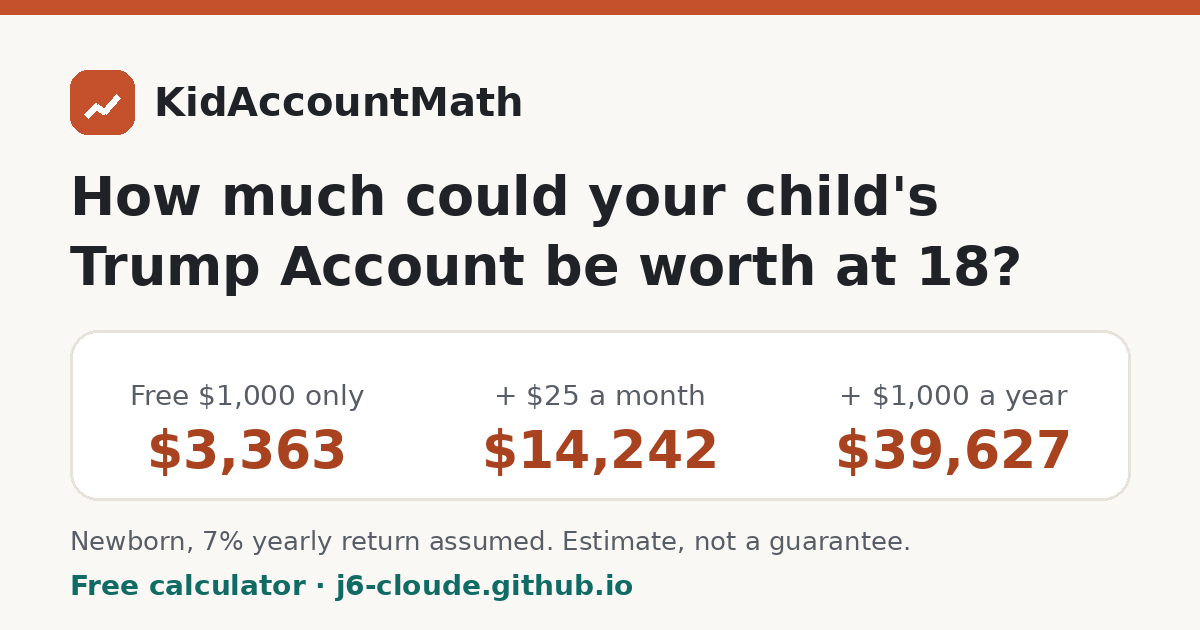
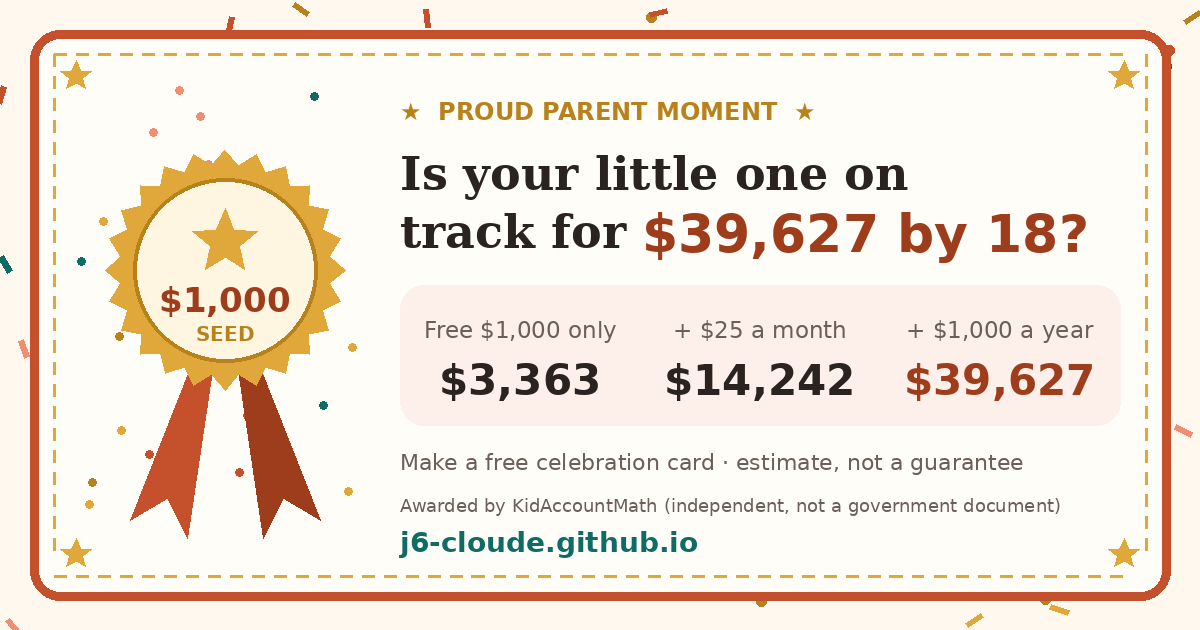
deploy: festive certificate share cards

diff --git a/assets/share.js b/assets/share.js
@@ -1,74 +1,140 @@
-/* KidAccountMath share card: client-side only. No tracking, no third-party scripts, no cookies.
-   calc.js calls window.KAMShare.update(state) after each result. */
+/* KidAccountMath celebration cards: client-side canvas PNGs. No tracking, no third-party scripts, no cookies, no storage.
+   Two kinds: 'proj' (projection certificate, fed by calc.js via KAMShare.update) and 'claim' (self-declared "we claimed it" card).
+   Design rule: festive + clearly unofficial. No seals, eagles, flags, signatures, serial numbers or agency styling. */
 (function(){
- var W=1080,H=1350,BG='#faf8f4',INK='#1f2328',MUTED='#575d66',ACC='#c4512b',ACCD='#a8421f',SOFT='#fdf0ea',LINE='#e7e2da',TEAL='#0f6b63';
- var FONT='system-ui,-apple-system,"Segoe UI",Roboto,"Noto Sans","DejaVu Sans",sans-serif';
- var $=function(i){return document.getElementById(i)},S=null,timer=0,blob=null,objURL='';
+ var W=1080,H=1350,
+  C={bg:'#fff8ee',paper:'#fffdf8',ink:'#2a2320',muted:'#6b5f57',acc:'#c4512b',accd:'#9e3d1c',gold:'#e0a83a',goldd:'#b9811c',teal:'#0f6b63',pink:'#ee8f73',soft:'#fdf0ea'},
+  SANS='system-ui,-apple-system,"Segoe UI",Roboto,"Noto Sans","DejaVu Sans",sans-serif',SERIF='Georgia,"Times New Roman","Noto Serif","DejaVu Serif",serif',
+  EMO='"Apple Color Emoji","Segoe UI Emoji","Noto Color Emoji",sans-serif';
+ var $=function(i){return document.getElementById(i)},S=null,KIND='proj',timer=0,blob=null,objURL='';
  function money(x){return '$'+Math.round(x).toLocaleString('en-US')}
  function pct(x){return (Math.round(x*1000)/10).toString()}
- // Query string that reproduces the result. Only non-default extras are added to keep links short.
- function query(s){
+ function cleanName(n){return String(n||'').replace(/[\u0000-\u001f<>]/g,'').replace(/\s+/g,' ').trim().slice(0,20)}
+ function nameOf(){var el=$('shname');return cleanName(el?el.value:'')}
+ function poss(n){return /s$/i.test(n)?n+"'":n+"'s"}
+ // light, fun tiers (by projected balance)
+ var TIERS=[[100000,'Money Tree Legend','🌳','LEGEND'],[40000,'Growth Superstar','🚀','SUPERSTAR'],[15000,'Compound Interest Champion','🏆','CHAMPION'],[5000,'Little Saver Star','⭐','STAR'],[0,'Future Investor','🌱','INVESTOR']];
+ function tier(b){for(var i=0;i<TIERS.length;i++)if(b>=TIERS[i][0])return TIERS[i];return TIERS[TIERS.length-1]}
+ // ---- URLs / text ----
+ function query(s,withName){
   var q='age='+s.age+'&amt='+s.fam+'&r='+pct(s.r);
   if(!s.seed)q+='&seed=0'; if(s.dell)q+='&dell=1'; if(s.emp)q+='&emp='+s.emp; if(s.to!==18)q+='&to='+s.to;
+  var n=nameOf(); if(withName&&n)q+='&name='+encodeURIComponent(n);
   return q;
  }
- function shareURL(s){return location.origin+'/trump-account-calculator/?'+query(s)}
- function headline(s){return "Our kid's Trump Account could reach "+money(s.bal)+' by '+s.to}
+ function incName(){var c=$('shincl');return !!(c&&c.checked)}
+ function shareURL(){return KIND==='claim'?location.origin+'/trump-account-eligibility-checker/':location.origin+'/trump-account-calculator/?'+query(S,incName())}
+ function shareText(){
+  if(KIND==='claim')return "We claimed our kid's free $1,000 Trump Account seed! 🎉 Did you claim yours? Check free:";
+  return "Our kid's Trump Account could reach "+money(S.bal)+' by '+S.to+' (estimate). Try your own numbers:';
+ }
  function assumptions(s){
-  var a=['Starts at age '+s.age, money(s.fam+s.emp)+'/yr added', pct(s.r)+'% yearly return'];
-  if(s.seed)a.push('$1,000 seed'); if(s.dell)a.push('Dell $250');
-  return a.join(' · ');
+  var a=[money(s.fam+s.emp)+'/yr added', pct(s.r)+'% yearly return'];
+  if(s.seed)a.push('$1,000 seed'); if(s.dell)a.push('Dell $250'); a.push('0.03% fee');
+  return 'Assumes '+a.join(' · ');
  }
- function fit(ctx,text,weight,size,maxW){ctx.font=weight+' '+size+'px '+FONT;while(ctx.measureText(text).width>maxW&&size>20){size-=4;ctx.font=weight+' '+size+'px '+FONT;}return size}
- function rr(ctx,x,y,w,h,r){ctx.beginPath();ctx.moveTo(x+r,y);ctx.arcTo(x+w,y,x+w,y+h,r);ctx.arcTo(x+w,y+h,x,y+h,r);ctx.arcTo(x,y+h,x,y,r);ctx.arcTo(x,y,x+w,y,r);ctx.closePath()}
- function draw(s,canvas){
-  canvas=canvas||document.createElement('canvas');canvas.width=W;canvas.height=H;
-  var c=canvas.getContext('2d'),M=90,CW=W-2*M;
-  c.fillStyle=BG;c.fillRect(0,0,W,H);
-  c.fillStyle=ACC;c.fillRect(0,0,W,18);
-  // brand
-  rr(c,M,90,72,72,20);c.fillStyle=ACC;c.fill();
-  c.strokeStyle='#fff';c.lineWidth=7;c.lineCap='round';c.lineJoin='round';c.beginPath();
-  c.moveTo(M+18,M+52+0);c.lineTo(M+29,M+41);c.lineTo(M+38,M+48);c.lineTo(M+54,M+30);c.stroke();
-  c.fillStyle=INK;c.font='800 44px '+FONT;c.textBaseline='middle';c.fillText('KidAccountMath',M+96,126);
-  // main card
-  rr(c,M,240,CW,760,40);c.fillStyle='#fff';c.fill();c.strokeStyle=LINE;c.lineWidth=3;c.stroke();
-  c.textBaseline='alphabetic';c.textAlign='center';var cx=W/2;
-  c.fillStyle=MUTED;c.font='600 50px '+FONT;c.fillText("Our kid's Trump Account",cx,370);
-  c.fillText('could reach',cx,436);
-  var big=money(s.bal),bs=fit(c,big,'800',200,CW-100);c.fillStyle=ACCD;c.fillText(big,cx,436+bs*1.0+40);
-  var y=436+bs+40;
-  c.fillStyle=INK;c.font='700 64px '+FONT;c.fillText('by age '+s.to,cx,y+110);
-  rr(c,M+60,y+170,CW-120,4,2);c.fillStyle=SOFT;c.fill();
-  var as=assumptions(s);fit(c,as,'500',34,CW-100);c.fillStyle=MUTED;c.fillText(as,cx,y+240);
-  // footer band
-  rr(c,M,1040,CW,120,30);c.fillStyle=SOFT;c.fill();
-  c.fillStyle=ACCD;c.font='700 40px '+FONT;c.fillText('Estimate, not a guarantee',cx,1114);
-  c.fillStyle=TEAL;c.font='700 44px '+FONT;c.fillText(location.host||'j6-cloude.github.io',cx,1240);
-  c.fillStyle=MUTED;c.font='400 28px '+FONT;c.fillText('Free calculator · independent · not affiliated with the IRS or Treasury',cx,1292);
-  return canvas;
+ // ---- canvas helpers ----
+ function font(w,sz,fam){return w+' '+sz+'px '+(fam||SANS)}
+ function fit(c,t,w,sz,max,fam){c.font=font(w,sz,fam);while(c.measureText(t).width>max&&sz>18){sz-=2;c.font=font(w,sz,fam);}return sz}
+ function wrap(c,t,max){var ws=t.split(' '),ls=[],l='';ws.forEach(function(w){var x=l?l+' '+w:w;if(c.measureText(x).width>max&&l){ls.push(l);l=w}else l=x});if(l)ls.push(l);return ls}
+ function rr(c,x,y,w,h,r){c.beginPath();c.moveTo(x+r,y);c.arcTo(x+w,y,x+w,y+h,r);c.arcTo(x+w,y+h,x,y+h,r);c.arcTo(x,y+h,x,y,r);c.arcTo(x,y,x+w,y,r);c.closePath()}
+ function rng(seed){return function(){seed=(seed*16807)%2147483647;return (seed-1)/2147483646}}
+ function star(c,x,y,r,col){c.save();c.translate(x,y);c.beginPath();for(var i=0;i<10;i++){var a=Math.PI/5*i-Math.PI/2,rad=i%2?r*.45:r;c.lineTo(Math.cos(a)*rad,Math.sin(a)*rad)}c.closePath();c.fillStyle=col;c.fill();c.restore()}
+ function confetti(c,w,h,seed,n,avoid){
+  var R=rng(seed),cols=[C.acc,C.gold,C.teal,C.pink,'#f2c14e','#7fb7a9'];
+  for(var i=0;i<n;i++){
+   var x=R()*w,y=R()*h;
+   if(avoid&&x>avoid[0]&&x<avoid[2]&&y>avoid[1]&&y<avoid[3])continue;
+   var col=cols[Math.floor(R()*cols.length)],k=R();c.save();c.translate(x,y);c.rotate(R()*Math.PI);c.globalAlpha=.75;c.fillStyle=col;
+   if(k<.45)c.fillRect(-9,-4,18,8);else if(k<.75){c.beginPath();c.arc(0,0,5+R()*3,0,7);c.fill();}
+   else if(k<.9){c.strokeStyle=col;c.lineWidth=4;c.beginPath();c.moveTo(-12,0);c.quadraticCurveTo(0,-10,12,0);c.stroke();}
+   else{c.restore();star(c,x,y,9,col);continue;}
+   c.restore();
+  }
  }
+ // scalloped rosette with two ribbon tails
+ function rosette(c,x,y,r,label,emoji){
+  c.save();
+  [[-1,C.acc],[1,C.accd]].forEach(function(p){c.beginPath();var s=p[0];c.moveTo(x+s*r*.18,y+r*.4);c.lineTo(x+s*r*.75,y+r*1.75);c.lineTo(x+s*r*.42,y+r*1.55);c.lineTo(x+s*r*.28,y+r*1.9);c.lineTo(x-s*r*.12,y+r*.6);c.closePath();c.fillStyle=p[1];c.fill();});
+  c.beginPath();var n=24;for(var i=0;i<=n*2;i++){var a=Math.PI*i/n,rad=i%2?r*.9:r;c.lineTo(x+Math.cos(a)*rad,y+Math.sin(a)*rad)}c.closePath();c.fillStyle=C.gold;c.fill();
+  c.beginPath();c.arc(x,y,r*.76,0,7);c.fillStyle='#fff4dc';c.fill();c.lineWidth=5;c.strokeStyle=C.goldd;c.setLineDash([2,9]);c.stroke();c.setLineDash([]);
+  c.textAlign='center';c.textBaseline='middle';c.font=font('400',r*.62,EMO);c.fillText(emoji,x,y-r*.12);
+  c.fillStyle=C.accd;fit(c,label,'800',r*.2,r*1.3);c.fillText(label,x,y+r*.46);
+  c.restore();
+ }
+ function frame(c,seed){
+  c.fillStyle=C.bg;c.fillRect(0,0,W,H);
+  confetti(c,W,H,seed,140,[70,70,W-70,H-70]);
+  rr(c,48,48,W-96,H-96,34);c.fillStyle=C.paper;c.fill();c.lineWidth=10;c.strokeStyle=C.acc;c.stroke();
+  rr(c,72,72,W-144,H-144,24);c.lineWidth=3;c.strokeStyle=C.gold;c.setLineDash([14,10]);c.stroke();c.setLineDash([]);
+  [[100,100],[W-100,100],[100,H-100],[W-100,H-100]].forEach(function(p){star(c,p[0],p[1],20,C.gold)});
+  confetti(c,W-240,300,seed+7,34,[180,40,W-420,300]);
+ }
+ function banner(c,y,text){
+  c.save();c.textAlign='center';c.textBaseline='middle';var sz=fit(c,text,'800',40,640),w=c.measureText(text).width+120,x=W/2-w/2;
+  c.fillStyle=C.accd;[[x-46,x],[x+w+46,x+w]].forEach(function(p){c.beginPath();c.moveTo(p[1],y-26);c.lineTo(p[0],y-26);c.lineTo(p[0]+(p[0]<p[1]?22:-22),y+4);c.lineTo(p[0],y+34);c.lineTo(p[1],y+34);c.fill();});
+  rr(c,x,y-34,w,68,12);c.fillStyle=C.acc;c.fill();c.fillStyle='#fff';c.font=font('800',sz);c.fillText(text,W/2,y+1);c.restore();
+ }
+ function footer(c,assume){
+  c.textAlign='center';c.textBaseline='alphabetic';var cx=W/2,host=location.host||'j6-cloude.github.io';
+  if(assume){c.fillStyle=C.muted;fit(c,assume,'500',28,W-240);c.fillText(assume,cx,H-302);
+   c.fillStyle=C.accd;c.font=font('700',30);c.fillText('Estimate, not a guarantee',cx,H-260);}
+  c.strokeStyle='#efdcc8';c.lineWidth=2;c.beginPath();c.moveTo(230,H-232);c.lineTo(W-230,H-232);c.stroke();
+  c.fillStyle=C.ink;c.font=font('700',30);c.fillText('Awarded by KidAccountMath',cx,H-192);
+  c.fillStyle=C.muted;c.font=font('400',25);c.fillText('(independent, not a government document)',cx,H-158);
+  c.fillStyle=C.teal;c.font=font('800',30);c.fillText(host,cx,H-114);
+ }
+ function drawProj(s,c){
+  var n=nameOf()||'Our little one',t=tier(s.bal),cx=W/2;frame(c,Math.round(s.bal)%997+11);
+  c.textAlign='center';c.textBaseline='alphabetic';
+  c.fillStyle=C.goldd;c.font=font('800',30);c.fillText('★  PROUD PARENT MOMENT  ★',cx,168);
+  c.fillStyle=C.ink;fit(c,n,'700',92,W-260,SERIF);c.fillText(n,cx,268);
+  c.fillStyle=C.muted;c.font=font('600',44);c.fillText('is on track for',cx,336);
+  c.fillStyle=C.accd;fit(c,money(s.bal),'900',168,W-260);c.fillText(money(s.bal),cx,496);
+  c.fillStyle=C.ink;c.font=font('800',54);c.fillText('by age '+s.to+'! 🎉',cx,576);
+  rosette(c,cx,704,96,t[3],t[2]);
+  banner(c,866,t[1]);
+  c.fillStyle=C.teal;c.font=font('700',36);c.fillText('Started investing at age '+s.age,cx,966);
+  footer(c,assumptions(s));
+ }
+ function drawClaim(c){
+  var n=nameOf(),who=n?poss(n):"our little one's",cx=W/2,msg='We claimed '+who+' $1,000 Trump Account seed!';frame(c,4242);
+  c.textAlign='center';c.textBaseline='alphabetic';
+  c.fillStyle=C.goldd;c.font=font('800',30);c.fillText('★  ACHIEVEMENT UNLOCKED  ★',cx,168);
+  rosette(c,cx,318,112,'CLAIMED!','🎉');
+  var sz=68,lines;do{c.font=font('800',sz);lines=wrap(c,msg,W-230);sz-=4}while(lines.length>3&&sz>40);
+  var lh=sz*1.16,y=626;lines.forEach(function(l){c.fillStyle=/\$1,000/.test(l)?C.accd:C.ink;c.fillText(l,cx,y);y+=lh;});
+  c.font=font('400',54,EMO);c.fillText('🎉  🥳  🎈',cx,y+4);
+  var by=Math.min(y+40,888);rr(c,150,by,W-300,124,26);c.fillStyle=C.soft;c.fill();
+  c.fillStyle=C.ink;c.font=font('700',38);c.fillText('Did you claim yours?',cx,by+54);
+  var chk='Check free at '+(location.host||'j6-cloude.github.io');c.fillStyle=C.teal;fit(c,chk,'700',34,W-340);c.fillText(chk,cx,by+102);
+  c.fillStyle=C.muted;c.font=font('500',26);c.fillText('Self-declared by a proud parent. Claiming is free;',cx,H-302);c.fillText('never pay anyone to claim.',cx,H-268);
+  footer(c,'');
+ }
+ function draw(s,canvas,kind){
+  canvas=canvas||document.createElement('canvas');canvas.width=W;canvas.height=H;var c=canvas.getContext('2d');
+  if((kind||KIND)==='claim')drawClaim(c);else drawProj(s,c);return canvas;
+ }
+ // ---- DOM ----
  function render(){
-  if(!S)return;var cv=draw(S);
-  cv.toBlob(function(b){blob=b;if(objURL)URL.revokeObjectURL(objURL);objURL=URL.createObjectURL(b);var im=$('shimg');if(im){im.src=objURL;im.hidden=false;}},'image/png');
+  draw(S).toBlob(function(b){blob=b;if(objURL)URL.revokeObjectURL(objURL);objURL=URL.createObjectURL(b);var im=$('shimg');if(im){im.src=objURL;im.hidden=false;}},'image/png');
  }
- function links(s){
-  var u=shareURL(s),t=headline(s)+' (estimate). Try your own numbers:',e=encodeURIComponent;
+ function refresh(){
+  var u=shareURL(),t=shareText(),e=encodeURIComponent;
   $('shfb').href='https://www.facebook.com/sharer/sharer.php?u='+e(u);
   $('shsms').href='sms:?&body='+e(t+' '+u);
   $('shwa').href='https://wa.me/?text='+e(t+' '+u);
-  $('shurl').value=u;
+  $('shurl').value=u;blob=null;clearTimeout(timer);timer=setTimeout(render,300);
  }
- function fname(){return 'trump-account-'+Math.round(S.bal)+'.png'}
- function download(){
-  function go(){var a=document.createElement('a');a.href=objURL;a.download=fname();document.body.appendChild(a);a.click();a.remove();}
-  if(blob)go();else draw(S).toBlob(function(b){blob=b;objURL=URL.createObjectURL(b);go();},'image/png');
- }
+ function fname(){return KIND==='claim'?'trump-account-claimed.png':'trump-account-certificate-'+Math.round(S.bal)+'.png'}
+ function withBlob(fn){if(blob)fn(blob);else draw(S).toBlob(function(b){blob=b;if(objURL)URL.revokeObjectURL(objURL);objURL=URL.createObjectURL(b);fn(b)},'image/png')}
+ function download(){withBlob(function(){var a=document.createElement('a');a.href=objURL;a.download=fname();document.body.appendChild(a);a.click();a.remove();})}
  function nativeShare(){
-  var u=shareURL(S),t=headline(S)+' (estimate). Try your own numbers:';
-  var data={title:'Trump Account estimate',text:t+' '+u,url:u};
-  try{var f=new File([blob],fname(),{type:'image/png'});if(blob&&navigator.canShare&&navigator.canShare({files:[f]}))data.files=[f];}catch(e){}
-  navigator.share(data).catch(function(){});
+  withBlob(function(b){
+   var u=shareURL(),data={title:'KidAccountMath',text:shareText()+' '+u,url:u};
+   try{var f=new File([b],fname(),{type:'image/png'});if(navigator.canShare&&navigator.canShare({files:[f]}))data.files=[f];}catch(e){}
+   navigator.share(data).catch(function(){});
+  });
  }
  function copy(){
   var u=$('shurl').value,ok=function(){$('shcopy').textContent='Copied!';setTimeout(function(){$('shcopy').textContent='Copy link'},1800)};
@@ -76,12 +142,19 @@
   else{$('shurl').select();document.execCommand('copy');ok();}
  }
  function init(){
-  var box=$('share');if(!box||box.dataset.ready)return;box.dataset.ready='1';box.hidden=false;
+  var box=$('share');if(!box||box.dataset.ready)return false;box.dataset.ready='1';KIND=box.getAttribute('data-kind')||'proj';
   $('shdl').addEventListener('click',download);$('shcopy').addEventListener('click',copy);
   if(navigator.share){$('shnat').hidden=false;$('shnat').addEventListener('click',nativeShare);}
+  var nm=$('shname');if(nm){var q=new URLSearchParams(location.search);if(q.get('name')){nm.value=cleanName(q.get('name'));if($('shincl'))$('shincl').checked=true;}
+   nm.addEventListener('input',function(){if(S||KIND==='claim')refresh()});}
+  if($('shincl'))$('shincl').addEventListener('change',function(){if(S)refresh()});
+  if(KIND==='claim'){var go=$('shgo');S={};go.addEventListener('click',function(){$('shbody').hidden=false;go.hidden=true;refresh();$('shbody').scrollIntoView({block:'start',behavior:'smooth'});});}
+  else box.hidden=false;
+  return true;
  }
+ document.addEventListener('DOMContentLoaded',init);
  window.KAMShare={
-  update:function(s){S=s;init();links(s);blob=null;clearTimeout(timer);timer=setTimeout(render,350);},
-  draw:draw,query:query,headline:headline,assumptions:assumptions,shareURL:shareURL
+  update:function(s){init();S=s;refresh();},
+  draw:draw,query:query,tier:tier,assumptions:assumptions,setName:function(n){var el=$('shname');if(el)el.value=n;}
  };
 })();

diff --git a/how-to-claim-trump-account/index.html b/how-to-claim-trump-account/index.html
@@ -32,6 +32,17 @@
 <li><strong>Ask for the $1,000</strong> (U.S. citizen born 2025–2028): send Form 4547 and pick the pilot program contribution. You can do this in the app, on the website, or in your IRS Online Account.</li>
 <li><strong>Optional:</strong> add money (up to $5,000 a year), and ask your employer if it adds money too.</li>
 </ol>
+<section id="share" class="share" data-kind="claim" aria-labelledby="shh"><h3 id="shh">🎉 Already claimed the $1,000?</h3>
+ <p>Celebrate it, and remind other parents to claim theirs. Nothing is checked or sent anywhere.</p>
+ <button type="button" class="btn" id="shgo">I've claimed it — make my certificate</button>
+ <div id="shbody" hidden><label for="shname">Child's first name or nickname (optional) <input id="shname" maxlength="20" autocomplete="off" placeholder="Our little one"></label>
+  <img id="shimg" class="shimg" alt="Celebration card with your child's result" width="1080" height="1350" hidden>
+  <div class="shbtns"><button type="button" class="btn" id="shdl">Download image</button><button type="button" class="btn alt" id="shnat" hidden>Share…</button></div>
+  <div class="shlinks"><a id="shfb" href="#" target="_blank" rel="noopener">Facebook</a><a id="shsms" href="#">Text message</a><a id="shwa" href="#" target="_blank" rel="noopener">WhatsApp</a><button type="button" id="shcopy">Copy link</button></div>
+  <label class="shurl" for="shurl">Link to share <input id="shurl" readonly></label>
+  <p class="small">Just for fun: made by KidAccountMath, an independent site. Not a government document.</p></div>
+</section>
+<script src="/assets/share.js" defer></script>
 <p>Who runs it: Treasury picked BNY as financial agent. Robinhood Securities is the broker and first trustee (per the IRS FAQ). Help line: 866-USA-4547.</p>
 <p>Got a rejection? See <a href="/form-4547-cp318-notice/">Form 4547 / CP318 fixes</a>.</p>
 <section id="faq"><h2>Frequently asked questions</h2><h3>Is Form 4547 required if my child was auto-enrolled?</h3><p>Not to open the account. You still need Form 4547 to request the $1,000 seed, and you must claim the account to manage it.</p><h3>Is Form 4547 a real IRS form?</h3><p>Yes. The IRS confirms Form 4547, Trump Account Election(s), is an official form.</p><h3>Who is the custodian of Trump Accounts?</h3><p>The IRS FAQ says Treasury designated BNY as financial agent and Robinhood Securities as brokerage provider and initial trustee.</p></section><section class="sources"><h2>Sources</h2><ul><li><a href="https://www.irs.gov/trumpaccounts" rel="noopener">IRS: Trump Accounts</a></li><li><a href="https://www.irs.gov/faqs/trump-accounts-frequently-asked-questions" rel="noopener">IRS: Trump Accounts – Frequently asked questions</a></li><li><a href="https://trumpaccounts.gov/" rel="noopener">trumpaccounts.gov (official program site)</a></li><li><a href="https://oig.ssa.gov/scam-alerts/2026-10-21-social-security-2027-cola-announced-beneficiaries-are-not-the-only-ones-looking-forward-to-the-cola/" rel="noopener">SSA OIG scam alert on COLA/imposters</a></li></ul></section><aside class="next" aria-label="Next step"><div class="lbl">Next step</div><a class="btn" href="/does-my-child-have-a-trump-account/">Check if the account is already open <span aria-hidden="true">&rarr;</span></a><p>How to look it up and spot fake apps and texts.</p></aside>

diff --git a/index.html b/index.html
@@ -53,12 +53,14 @@
   <button type="button" data-fam="0">$0</button><button type="button" data-fam="120">$10/mo</button><button type="button" data-fam="300">$25/mo</button><button type="button" data-fam="600">$50/mo</button><button type="button" data-fam="1200">$100/mo</button></div>
  <label class="chk"><input type="checkbox" id="seed" checked> Include the free $1,000 (U.S. citizen born 2025–2028)</label>
  <div id="out" class="out" aria-live="polite"><noscript>The calculator needs JavaScript. See the table of examples below.</noscript></div>
- <section id="share" class="share" hidden aria-labelledby="shh"><h3 id="shh">Share your child's number</h3>
-  <p class="small">Send this picture to your partner or family. The link opens the calculator with these same numbers. Nothing you type leaves your device.</p>
-  <img id="shimg" class="shimg" alt="Picture card showing your child's estimated Trump Account value" width="1080" height="1350" hidden>
+<section id="share" class="share" data-kind="proj" hidden aria-labelledby="shh"><h3 id="shh">🎉 Share your child's number</h3>
+  <p class="small">Make a little certificate for your partner or family. The name stays on your device unless you tick the box.</p>
+  <label for="shname">Child's first name or nickname (optional) <input id="shname" maxlength="20" autocomplete="off" placeholder="Our little one"></label><label class="chk"><input type="checkbox" id="shincl"> Include name in link</label>
+  <img id="shimg" class="shimg" alt="Celebration card with your child's result" width="1080" height="1350" hidden>
   <div class="shbtns"><button type="button" class="btn" id="shdl">Download image</button><button type="button" class="btn alt" id="shnat" hidden>Share…</button></div>
   <div class="shlinks"><a id="shfb" href="#" target="_blank" rel="noopener">Facebook</a><a id="shsms" href="#">Text message</a><a id="shwa" href="#" target="_blank" rel="noopener">WhatsApp</a><button type="button" id="shcopy">Copy link</button></div>
-  <label class="shurl" for="shurl">Link to these numbers <input id="shurl" readonly></label>
+  <label class="shurl" for="shurl">Link to share <input id="shurl" readonly></label>
+  <p class="small">Just for fun: made by KidAccountMath, an independent site. Not a government document.</p>
  </section>
  <details class="adv"><summary>Advanced options</summary><div class="grid">
   <label for="emp">Employer adds per year ($, max 2,500) <input type="number" id="emp" min="0" max="2500" step="50" value="0"></label>

diff --git a/trump-account-calculator/index.html b/trump-account-calculator/index.html
@@ -33,12 +33,14 @@
   <button type="button" data-fam="0">$0</button><button type="button" data-fam="120">$10/mo</button><button type="button" data-fam="300">$25/mo</button><button type="button" data-fam="600">$50/mo</button><button type="button" data-fam="1200">$100/mo</button></div>
  <label class="chk"><input type="checkbox" id="seed" checked> Include the free $1,000 (U.S. citizen born 2025–2028)</label>
  <div id="out" class="out" aria-live="polite"><noscript>The calculator needs JavaScript. See the table of examples below.</noscript></div>
- <section id="share" class="share" hidden aria-labelledby="shh"><h3 id="shh">Share your child's number</h3>
-  <p class="small">Send this picture to your partner or family. The link opens the calculator with these same numbers. Nothing you type leaves your device.</p>
-  <img id="shimg" class="shimg" alt="Picture card showing your child's estimated Trump Account value" width="1080" height="1350" hidden>
+<section id="share" class="share" data-kind="proj" hidden aria-labelledby="shh"><h3 id="shh">🎉 Share your child's number</h3>
+  <p class="small">Make a little certificate for your partner or family. The name stays on your device unless you tick the box.</p>
+  <label for="shname">Child's first name or nickname (optional) <input id="shname" maxlength="20" autocomplete="off" placeholder="Our little one"></label><label class="chk"><input type="checkbox" id="shincl"> Include name in link</label>
+  <img id="shimg" class="shimg" alt="Celebration card with your child's result" width="1080" height="1350" hidden>
   <div class="shbtns"><button type="button" class="btn" id="shdl">Download image</button><button type="button" class="btn alt" id="shnat" hidden>Share…</button></div>
   <div class="shlinks"><a id="shfb" href="#" target="_blank" rel="noopener">Facebook</a><a id="shsms" href="#">Text message</a><a id="shwa" href="#" target="_blank" rel="noopener">WhatsApp</a><button type="button" id="shcopy">Copy link</button></div>
-  <label class="shurl" for="shurl">Link to these numbers <input id="shurl" readonly></label>
+  <label class="shurl" for="shurl">Link to share <input id="shurl" readonly></label>
+  <p class="small">Just for fun: made by KidAccountMath, an independent site. Not a government document.</p>
  </section>
  <details class="adv"><summary>Advanced options</summary><div class="grid">
   <label for="emp">Employer adds per year ($, max 2,500) <input type="number" id="emp" min="0" max="2500" step="50" value="0"></label>

diff --git a/trump-account-eligibility-checker/index.html b/trump-account-eligibility-checker/index.html
@@ -31,6 +31,17 @@
  </div></form>
 <div id="eout" class="out" aria-live="polite"></div>
 <script src="/assets/elig.js" defer></script>
+<section id="share" class="share" data-kind="claim" aria-labelledby="shh"><h3 id="shh">🎉 Already claimed the $1,000?</h3>
+ <p>Celebrate it, and remind other parents to claim theirs. Nothing is checked or sent anywhere.</p>
+ <button type="button" class="btn" id="shgo">I've claimed it — make my certificate</button>
+ <div id="shbody" hidden><label for="shname">Child's first name or nickname (optional) <input id="shname" maxlength="20" autocomplete="off" placeholder="Our little one"></label>
+  <img id="shimg" class="shimg" alt="Celebration card with your child's result" width="1080" height="1350" hidden>
+  <div class="shbtns"><button type="button" class="btn" id="shdl">Download image</button><button type="button" class="btn alt" id="shnat" hidden>Share…</button></div>
+  <div class="shlinks"><a id="shfb" href="#" target="_blank" rel="noopener">Facebook</a><a id="shsms" href="#">Text message</a><a id="shwa" href="#" target="_blank" rel="noopener">WhatsApp</a><button type="button" id="shcopy">Copy link</button></div>
+  <label class="shurl" for="shurl">Link to share <input id="shurl" readonly></label>
+  <p class="small">Just for fun: made by KidAccountMath, an independent site. Not a government document.</p></div>
+</section>
+<script src="/assets/share.js" defer></script>
 <h2>Eligibility rules at a glance</h2>
 <table><thead><tr><th>Benefit</th><th>Who qualifies</th><th>How to get it</th></tr></thead><tbody>
 <tr><td>Trump Account</td><td>Any child with a valid SSN who will not turn 18 before the end of the year the account is established</td><td>Treasury auto-enrolled eligible children from Oct 1, 2026; claim it in the Trump Accounts app/website. Otherwise file Form 4547.</td></tr>

diff --git a/assets/style.css b/assets/style.css
@@ -59,3 +59,4 @@ footer{max-width:820px;margin:1rem auto 2rem;padding:1rem;font-size:.85rem;color
 .shlinks a,.shlinks button{display:inline-flex;align-items:center;min-height:44px;padding:.4rem .9rem;border-radius:999px;border:1.5px solid var(--line);background:#fff;color:var(--ink);text-decoration:none;font:inherit;cursor:pointer}
 .shlinks a:hover,.shlinks button:hover{border-color:var(--accent)}
 .shurl{margin-top:.7rem;font-size:.85rem;color:var(--muted)}.shurl input{font-size:.85rem;min-height:40px}
+.share{background:linear-gradient(#fff,#fffaf2)}.share>label,#shbody>label{margin-top:.6rem}#shgo{border:0;font:inherit;font-weight:700;cursor:pointer;margin:.3rem 0}
